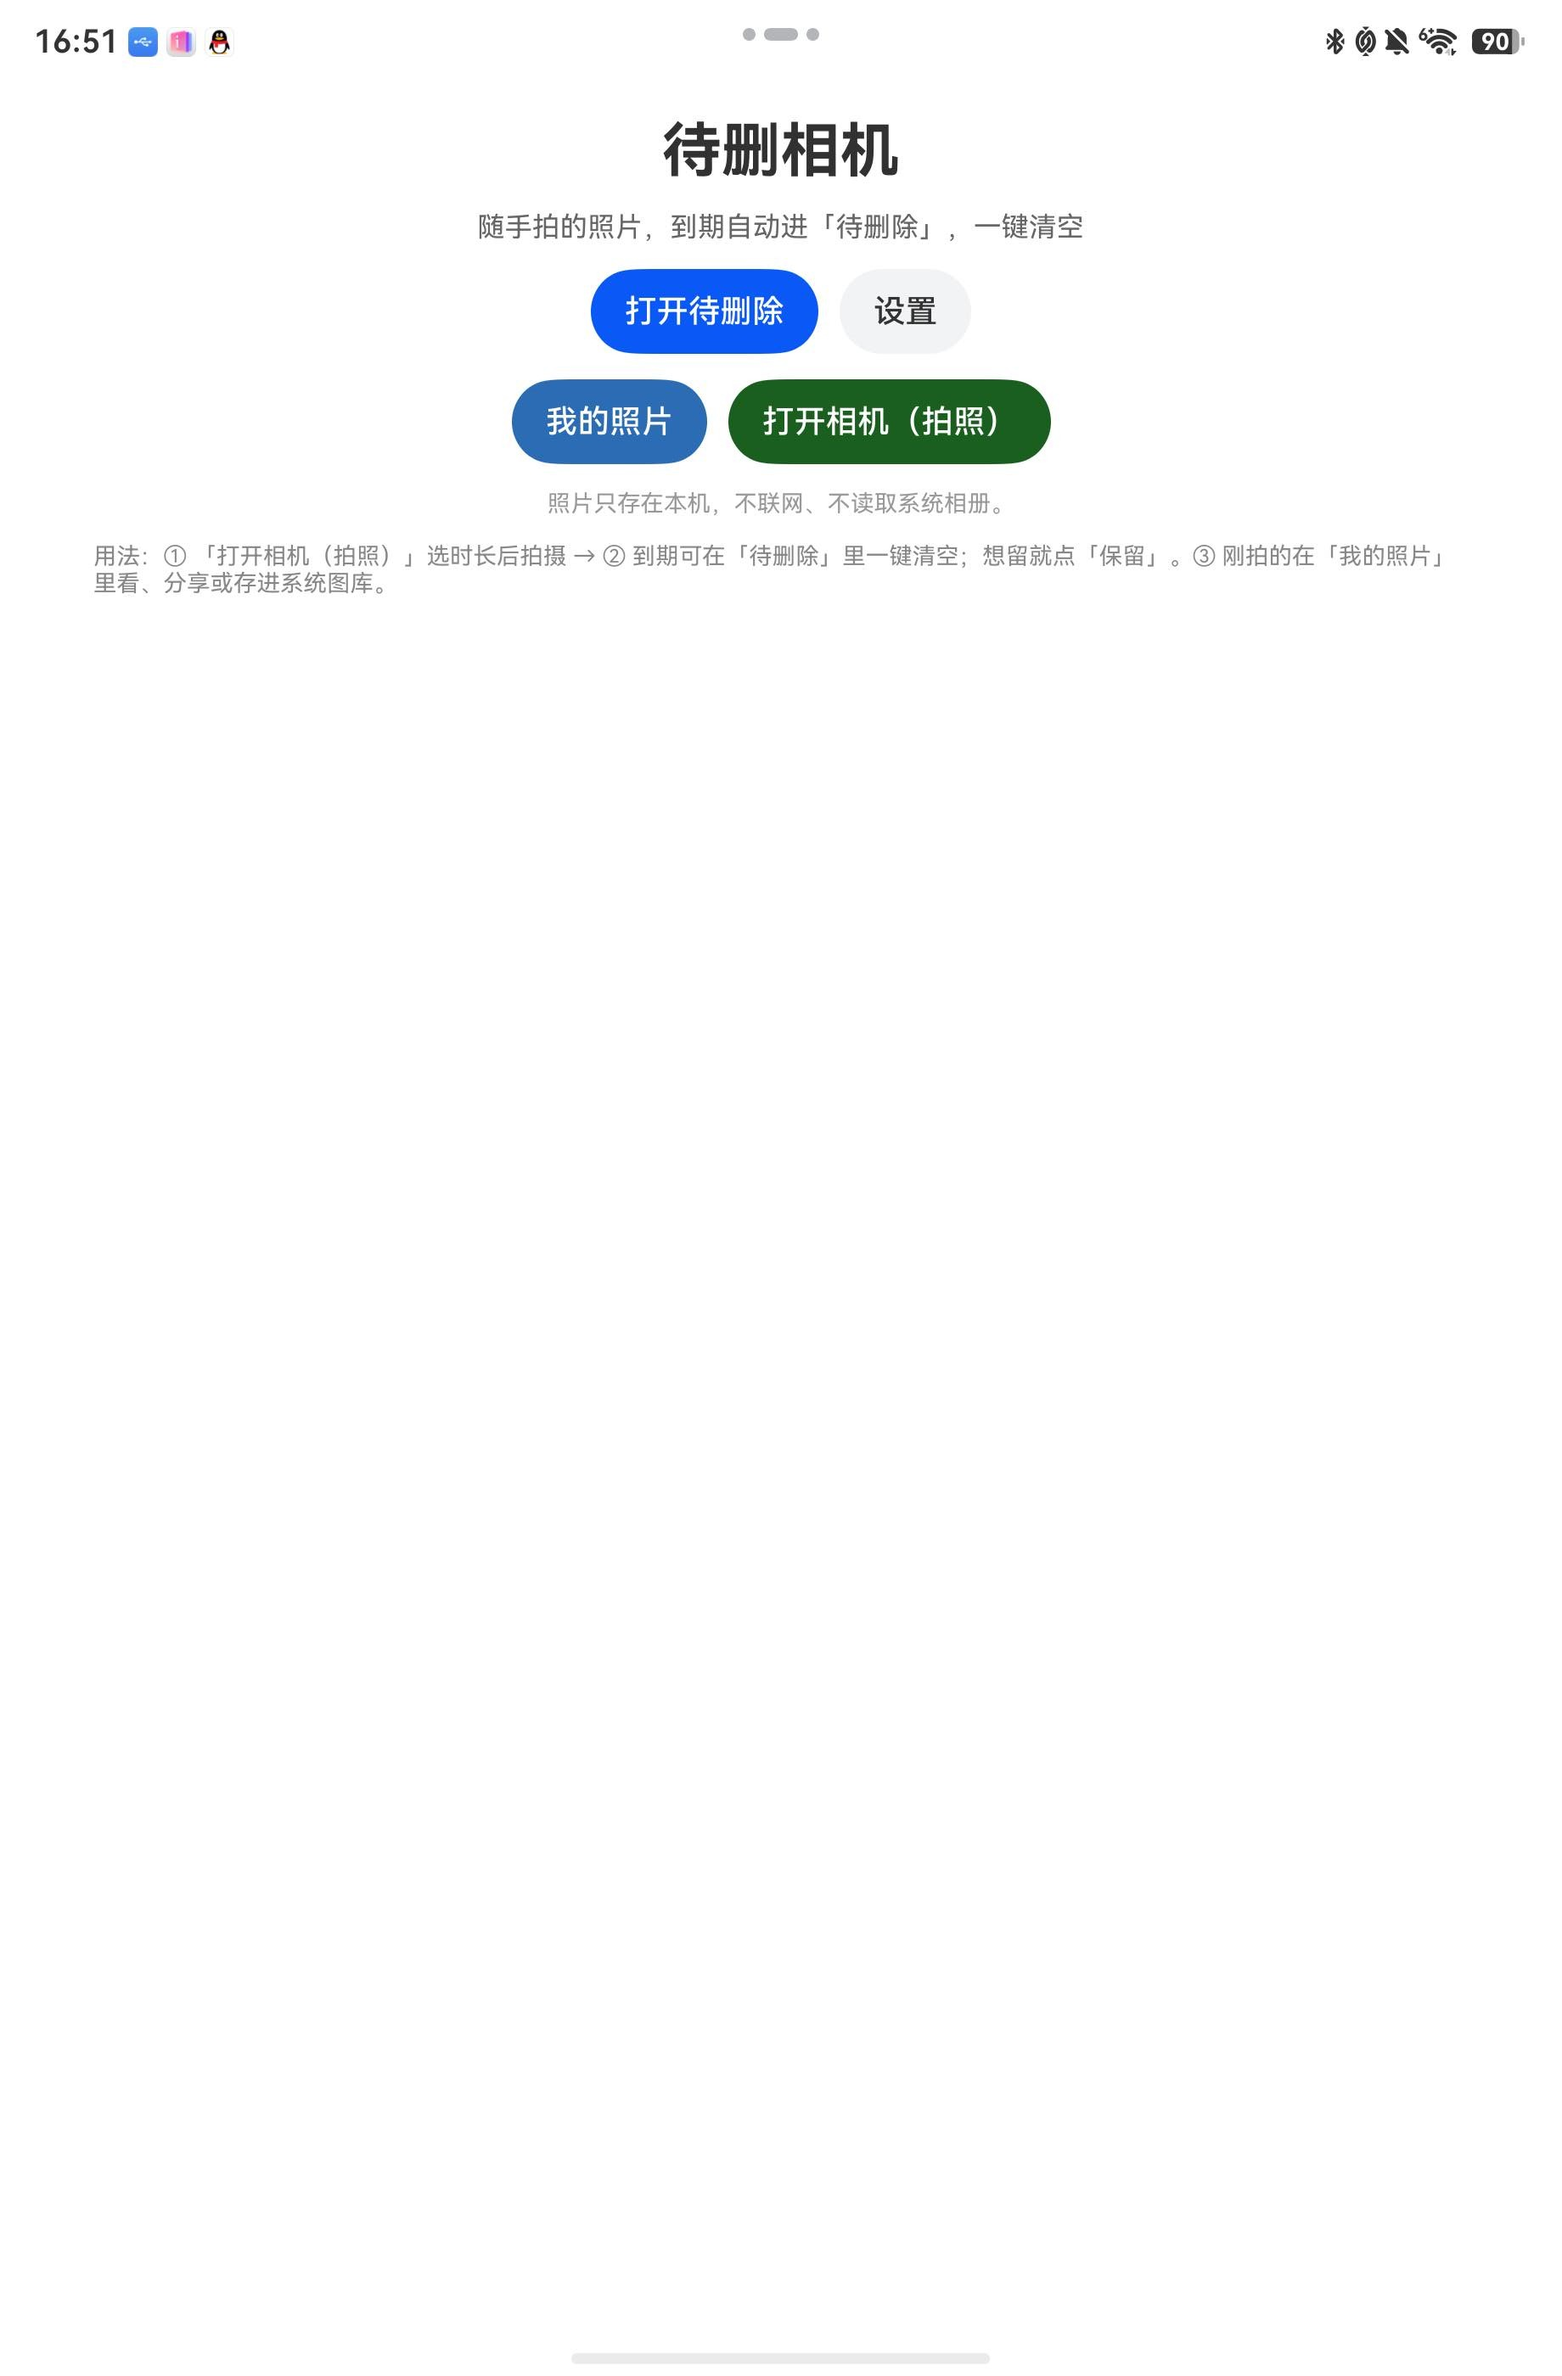
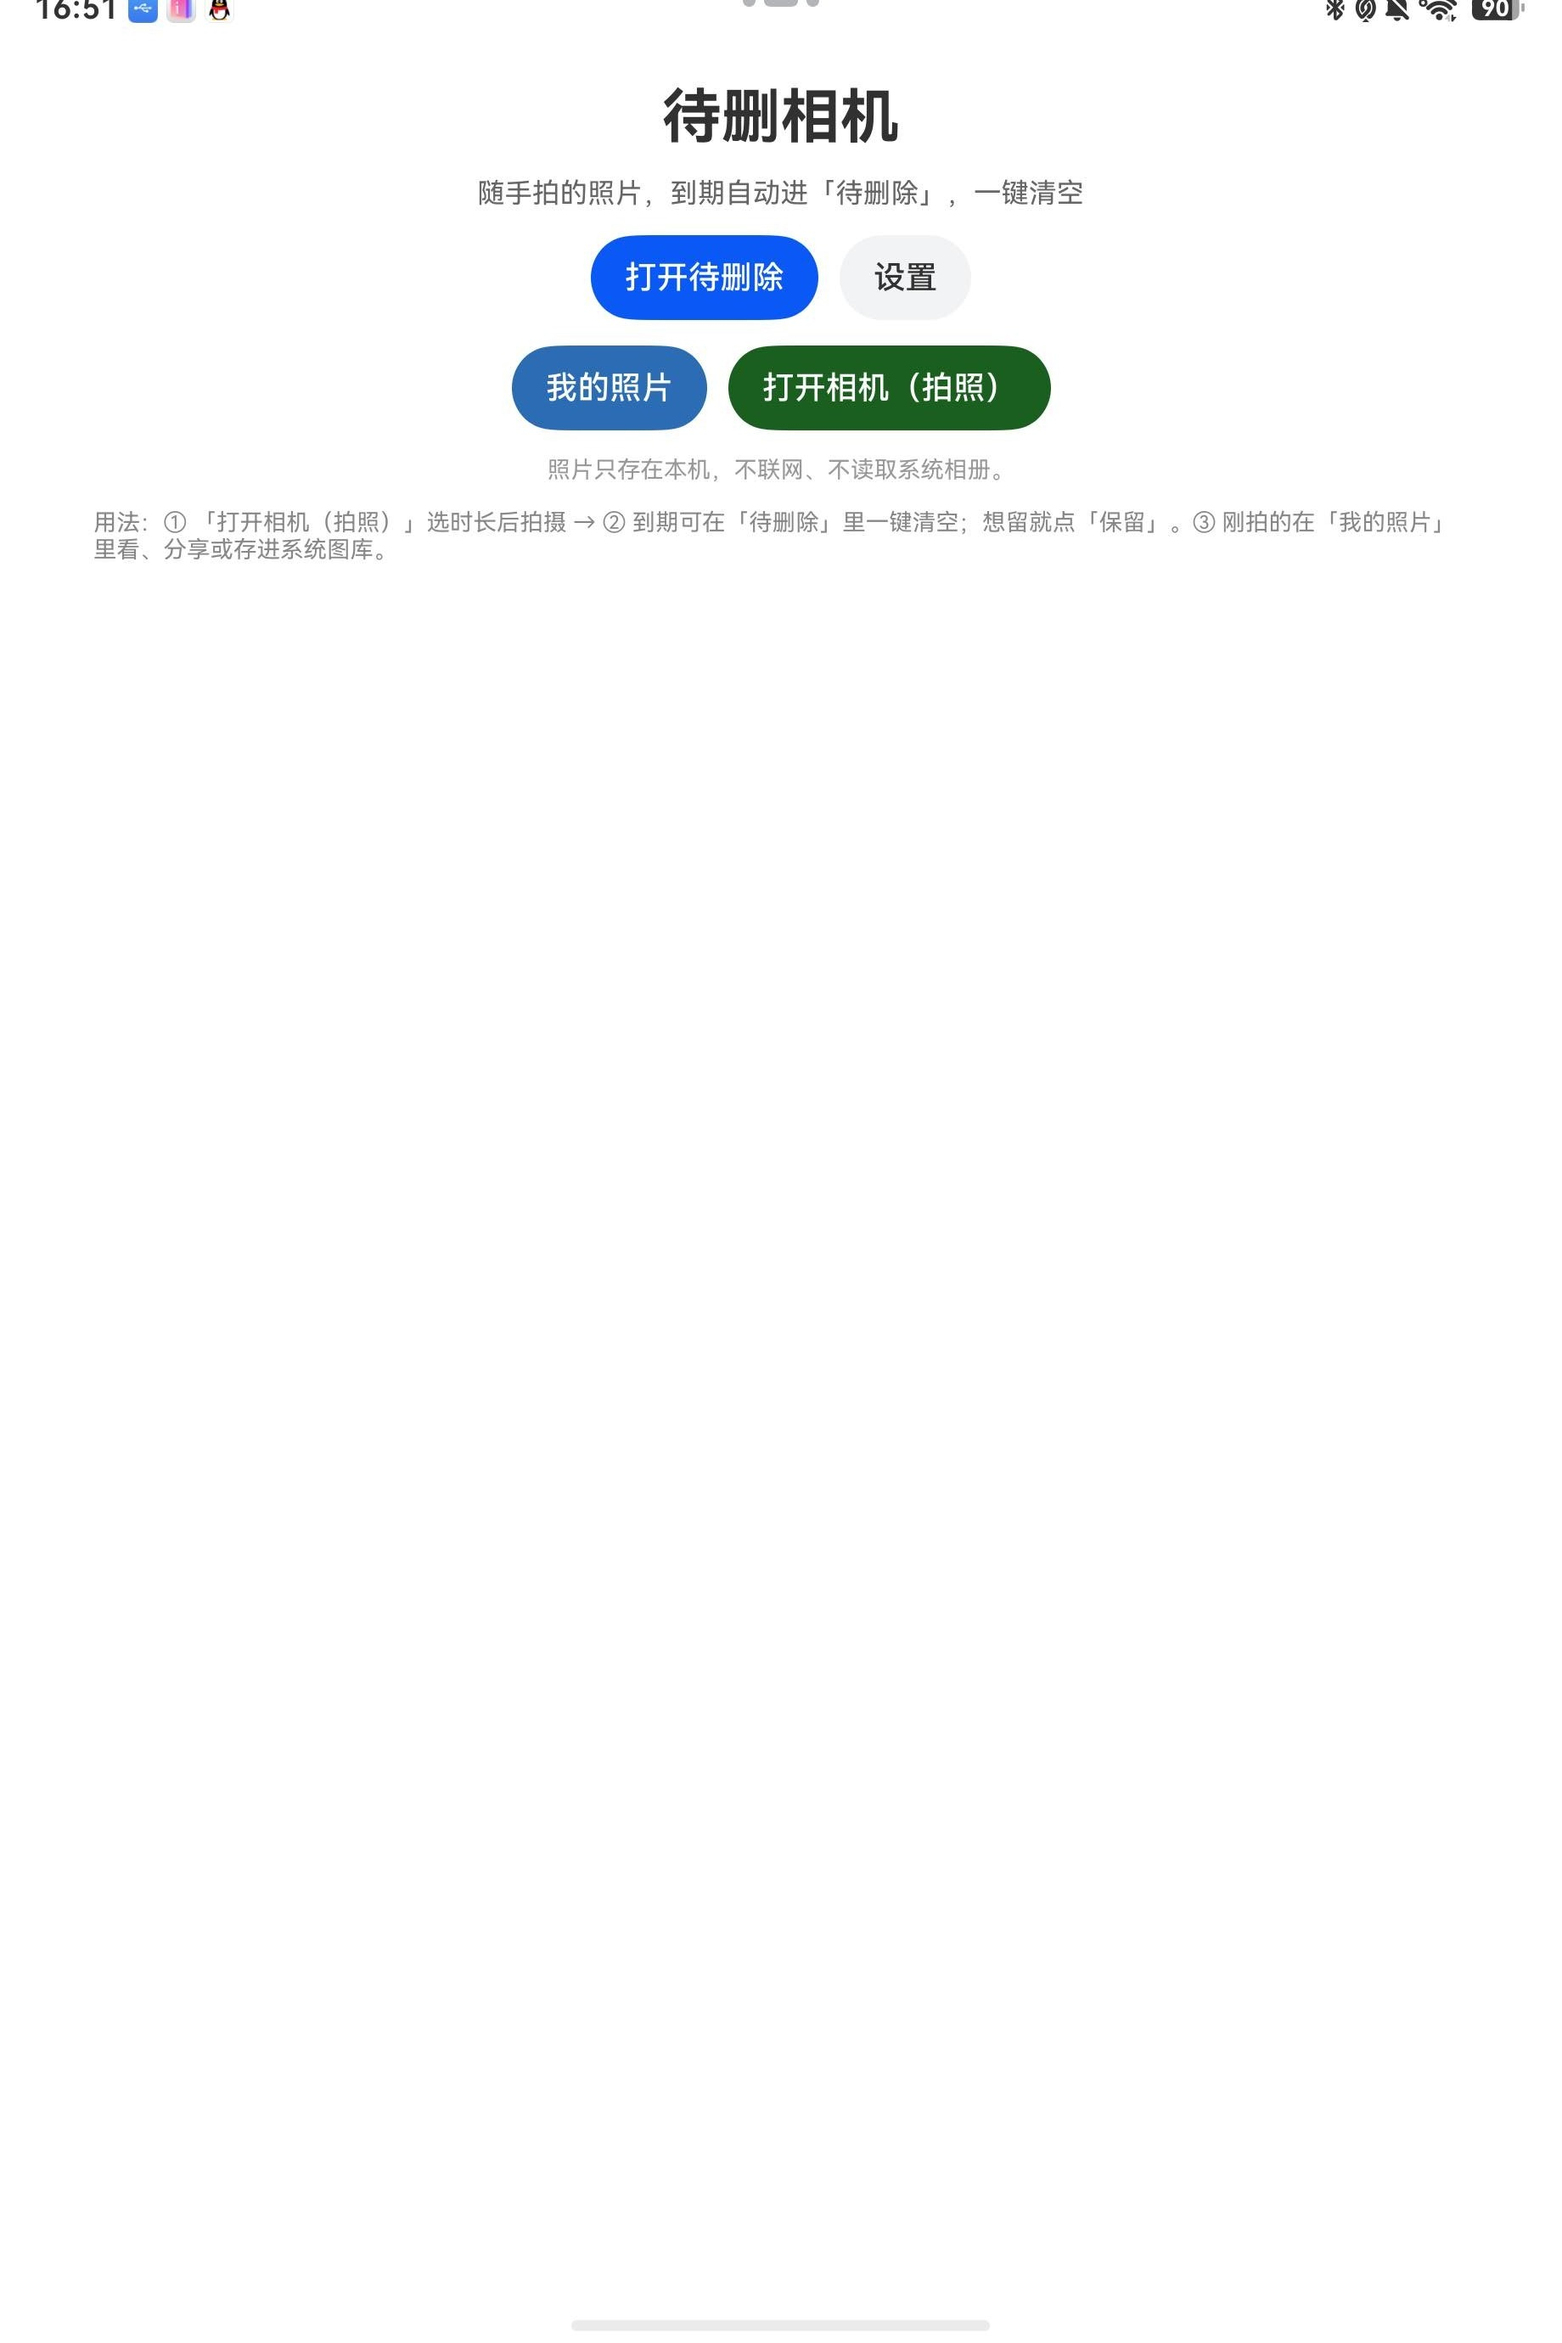
隐私政策（按 AGC 模板）+ 截图规格修正为精确 2:3（1840x2760）

diff --git a/docs/PRIVACY.md b/docs/PRIVACY.md
@@ -1,0 +1,94 @@
+# 待删相机（PhotoDelete）隐私政策
+
+**生效日期：2026 年 9 月 11 日** ｜ **最近更新：2026 年 9 月 11 日**
+
+本政策适用于「待删相机」（包名 `com.dsh.photodelete`，以下称"本应用"）。我们深知个人信息对你的重要性，
+并会尽全力保护你的个人信息安全。**本应用的设计原则是：不收集、不上传、不共享你的任何个人信息。**
+
+- 开发者：本应用的个人开发者（联系方式见第 10 条）
+- 适用平台：HarmonyOS
+
+## 1. 我们如何收集和使用你的个人信息
+
+**我们不在服务器端收集或上传任何个人信息。** 本应用未申请网络权限，从机制上无法将数据传出你的设备。
+
+本应用仅在你的设备本地处理以下数据，且**仅在你主动使用对应功能时**发生：
+
+| 场景 | 处理的数据 | 目的 | 是否离开设备 |
+|---|---|---|---|
+| 拍摄照片（相机） | 你拍摄的照片、拍摄时间 | 在你设定的时间后把照片整理进「待删除」，供你一键清空 | 否 |
+| 保存拍摄偏好 | 默认保留时长（如 24 小时）、到期提醒开关 | 记住你的设置 | 否（存在设备本地的应用配置中） |
+| 从系统图库导入 | 你在系统选择器中**主动选中**的图片 | 复制一份到本应用内统一管理 | 否 |
+| 截屏（含本页） | 本应用界面画面 | 生成一张截图并纳入管理 | 否 |
+| 底部的截图/分享 | 你选中的照片 | 通过系统分享面板发送给你指定的应用 | 否（由系统授权目标应用临时读取） |
+
+**权限使用说明**
+
+| 权限 | 用途 | 可否拒绝 |
+|---|---|---|
+| `ohos.permission.CAMERA` | 仅用于在本应用内拍摄照片 | 可以。拒绝后仍可使用「我的照片」「待删除」「设置」等全部功能，仅相机页提示你去系统设置授权 |
+
+**本应用不申请**以下权限：读取/写入系统相册（`READ_IMAGEVIDEO` / `WRITE_IMAGEVIDEO`）、网络访问、位置、通讯录、
+电话、短信、日历、麦克风、通知读取等。
+
+## 2. 我们如何存储个人信息
+
+- **存储位置**：全部数据仅保存在你设备上**本应用的私有沙箱目录**内（照片位于应用的 `files/media` 目录，
+  元数据保存在应用本地的 SQLite 数据库中，设置项保存在应用本地的偏好配置中）。
+- **存储期限**：
+  - 照片按你设定的时长保存；到期后仅**移入「待删除」列表**，**不会自动删除**，需你点击「一键删除」并二次确认才会删除；
+  - 你在「待删除」中点击「保留」，该照片将不再自动进入待删除；
+  - 卸载本应用后，沙箱内的照片与数据库将由操作系统一并清除。
+- **数据出境**：不存在（本应用无网络能力）。
+
+## 3. 我们如何共享、转让、公开披露你的个人信息
+
+- **共享**：我们**不会**向任何第三方共享你的个人信息。仅当你主动点击「分享」并选择目标应用时，
+  由操作系统把该照片的**临时读取权限**授予你选中的那个应用（此行为由系统弹窗与授权机制控制，我们不接触授权过程）。
+- **转让**：不存在。
+- **公开披露**：不存在。
+
+## 4. 我们如何保护你的个人信息
+
+- 采用**本地化处理**：数据不离开设备，天然规避传输环节的泄露风险；
+- 依赖操作系统提供的**应用沙箱**机制隔离数据：其它应用无法读取本应用沙箱内的照片；
+- 本应用**不申请网络权限**，不存在因网络传输导致的数据泄露可能。
+
+## 5. 你的权利
+
+- **访问与查看**：在「我的照片」「待删除」中查看本应用保存的全部照片与元数据；
+- **更正**：通过「保留」调整照片的保留策略；在「设置」中修改默认时长；
+- **删除**：在「待删除」中点击「一键删除」永久删除照片；或直接卸载本应用以清除全部数据；
+- **撤回同意**：可在系统「设置 → 应用 → 待删相机 → 权限」中随时关闭相机权限；
+- **导出**：「我的照片」支持把照片「保存图片」到系统图库，或通过「分享」发送到其它应用。
+
+## 6. 我们如何处理儿童的个人信息
+
+本应用不面向儿童收集任何个人信息，也不具备账号与联网能力，不会收集年龄等信息。若未成年人使用本应用，
+请在监护人指导下使用。
+
+## 7. 第三方 SDK 与插件说明
+
+**本应用未集成任何第三方 SDK、统计或广告组件**，不涉及第三方收集个人信息的行为。
+运行时依赖仅为 HarmonyOS 系统提供的系统能力接口。
+
+## 8. 本政策如何更新
+
+若本政策发生变更（例如应用新增功能涉及新的数据处理），我们会在新版本发布时更新本政策，
+并在本页面标注"最近更新"日期。重大变更会在应用内以显著方式提示。
+
+## 9. 联系我们
+
+如你对本政策或个人信息保护有任何疑问、意见或投诉，请通过以下方式联系我们：
+
+- 开发者邮箱：`photodelete@example.com`（**发布前请替换为你自己的邮箱**）
+- 你也可以通过应用市场该应用的"开发者信息"页面发起反馈。
+
+我们将在收到你的反馈后 15 个工作日内回复。
+
+## 10. 附：关键承诺一览
+
+1. 不收集个人信息、不申请网络权限；
+2. 不读取、不删除系统相册内容（未申请媒体库权限）；
+3. 照片到期仅"待删除"，删除必须由你确认；
+4. 无第三方 SDK，无广告，无统计。

diff --git a/docs/AGC-SUBMISSION.md b/docs/AGC-SUBMISSION.md
@@ -27,16 +27,19 @@
 - ❌ `ohos.permission.INTERNET` —— 应用**无任何联网行为**。
 - ❌ 定位、通讯录、电话、通知读取等一律未申请。
 
-## 3. 隐私政策要点（可作为政策正文模板）
+## 3. 隐私政策
 
-1. **不收集个人信息**：不申请账号、不采集设备标识、不采集位置。
-2. **照片不出设备**：拍摄/导入的照片仅存储在本应用沙箱（`.../files/media`），不上传服务器。
-3. **不访问系统相册**：除非你主动点「导入」并在系统选择器中选择，应用无法读取系统图库；
-   你主动选择导入的图片会复制一份到应用沙箱内管理。
-4. **不申请网络权限**：应用无法联网，从机制上保证数据不外传。
-5. **删除是显式的**：到期仅将照片移入「待删除」列表，必须由你点击「一键删除」并二次确认才会真正删除；
-   删除前可随时「保留」。
-6. **卸载即清除**：卸载应用后，沙箱内的照片与数据库一并被系统清除。
+**完整正文见 [`docs/PRIVACY.md`](PRIVACY.md)**（按 AGC 隐私政策模板的章节组织：收集/存储/共享/保护/你的权利/
+儿童/第三方 SDK/变更/联系方式/生效日期）。
+
+- **填表方式（二选一，按 AGC 表单要求）**：
+  1. 表单要求**填写正文**：直接粘贴 `docs/PRIVACY.md` 全文；
+  2. 表单要求**填写链接**：用本仓库的在线地址（源码已开源，可直接引用）：
+     `https://github.com/YGTQ-tree/photodelete/blob/main/docs/PRIVACY.md`
+     （若要求可访问的网页，开启 GitHub Pages 或用任意静态托管即可。）
+- ⚠ **发布前必须替换**：`docs/PRIVACY.md` 第 9 条里的开发者邮箱（当前是占位符
+  `photodelete@example.com`）改成你自己的邮箱；生效日期按实际提交日期调整。
+- 本应用可写进"收集情况"的核心结论：**不收集任何个人信息、不申请网络权限、无第三方 SDK**。
 
 ## 4. 供审核复现的功能路径（建议随附截图）
 
